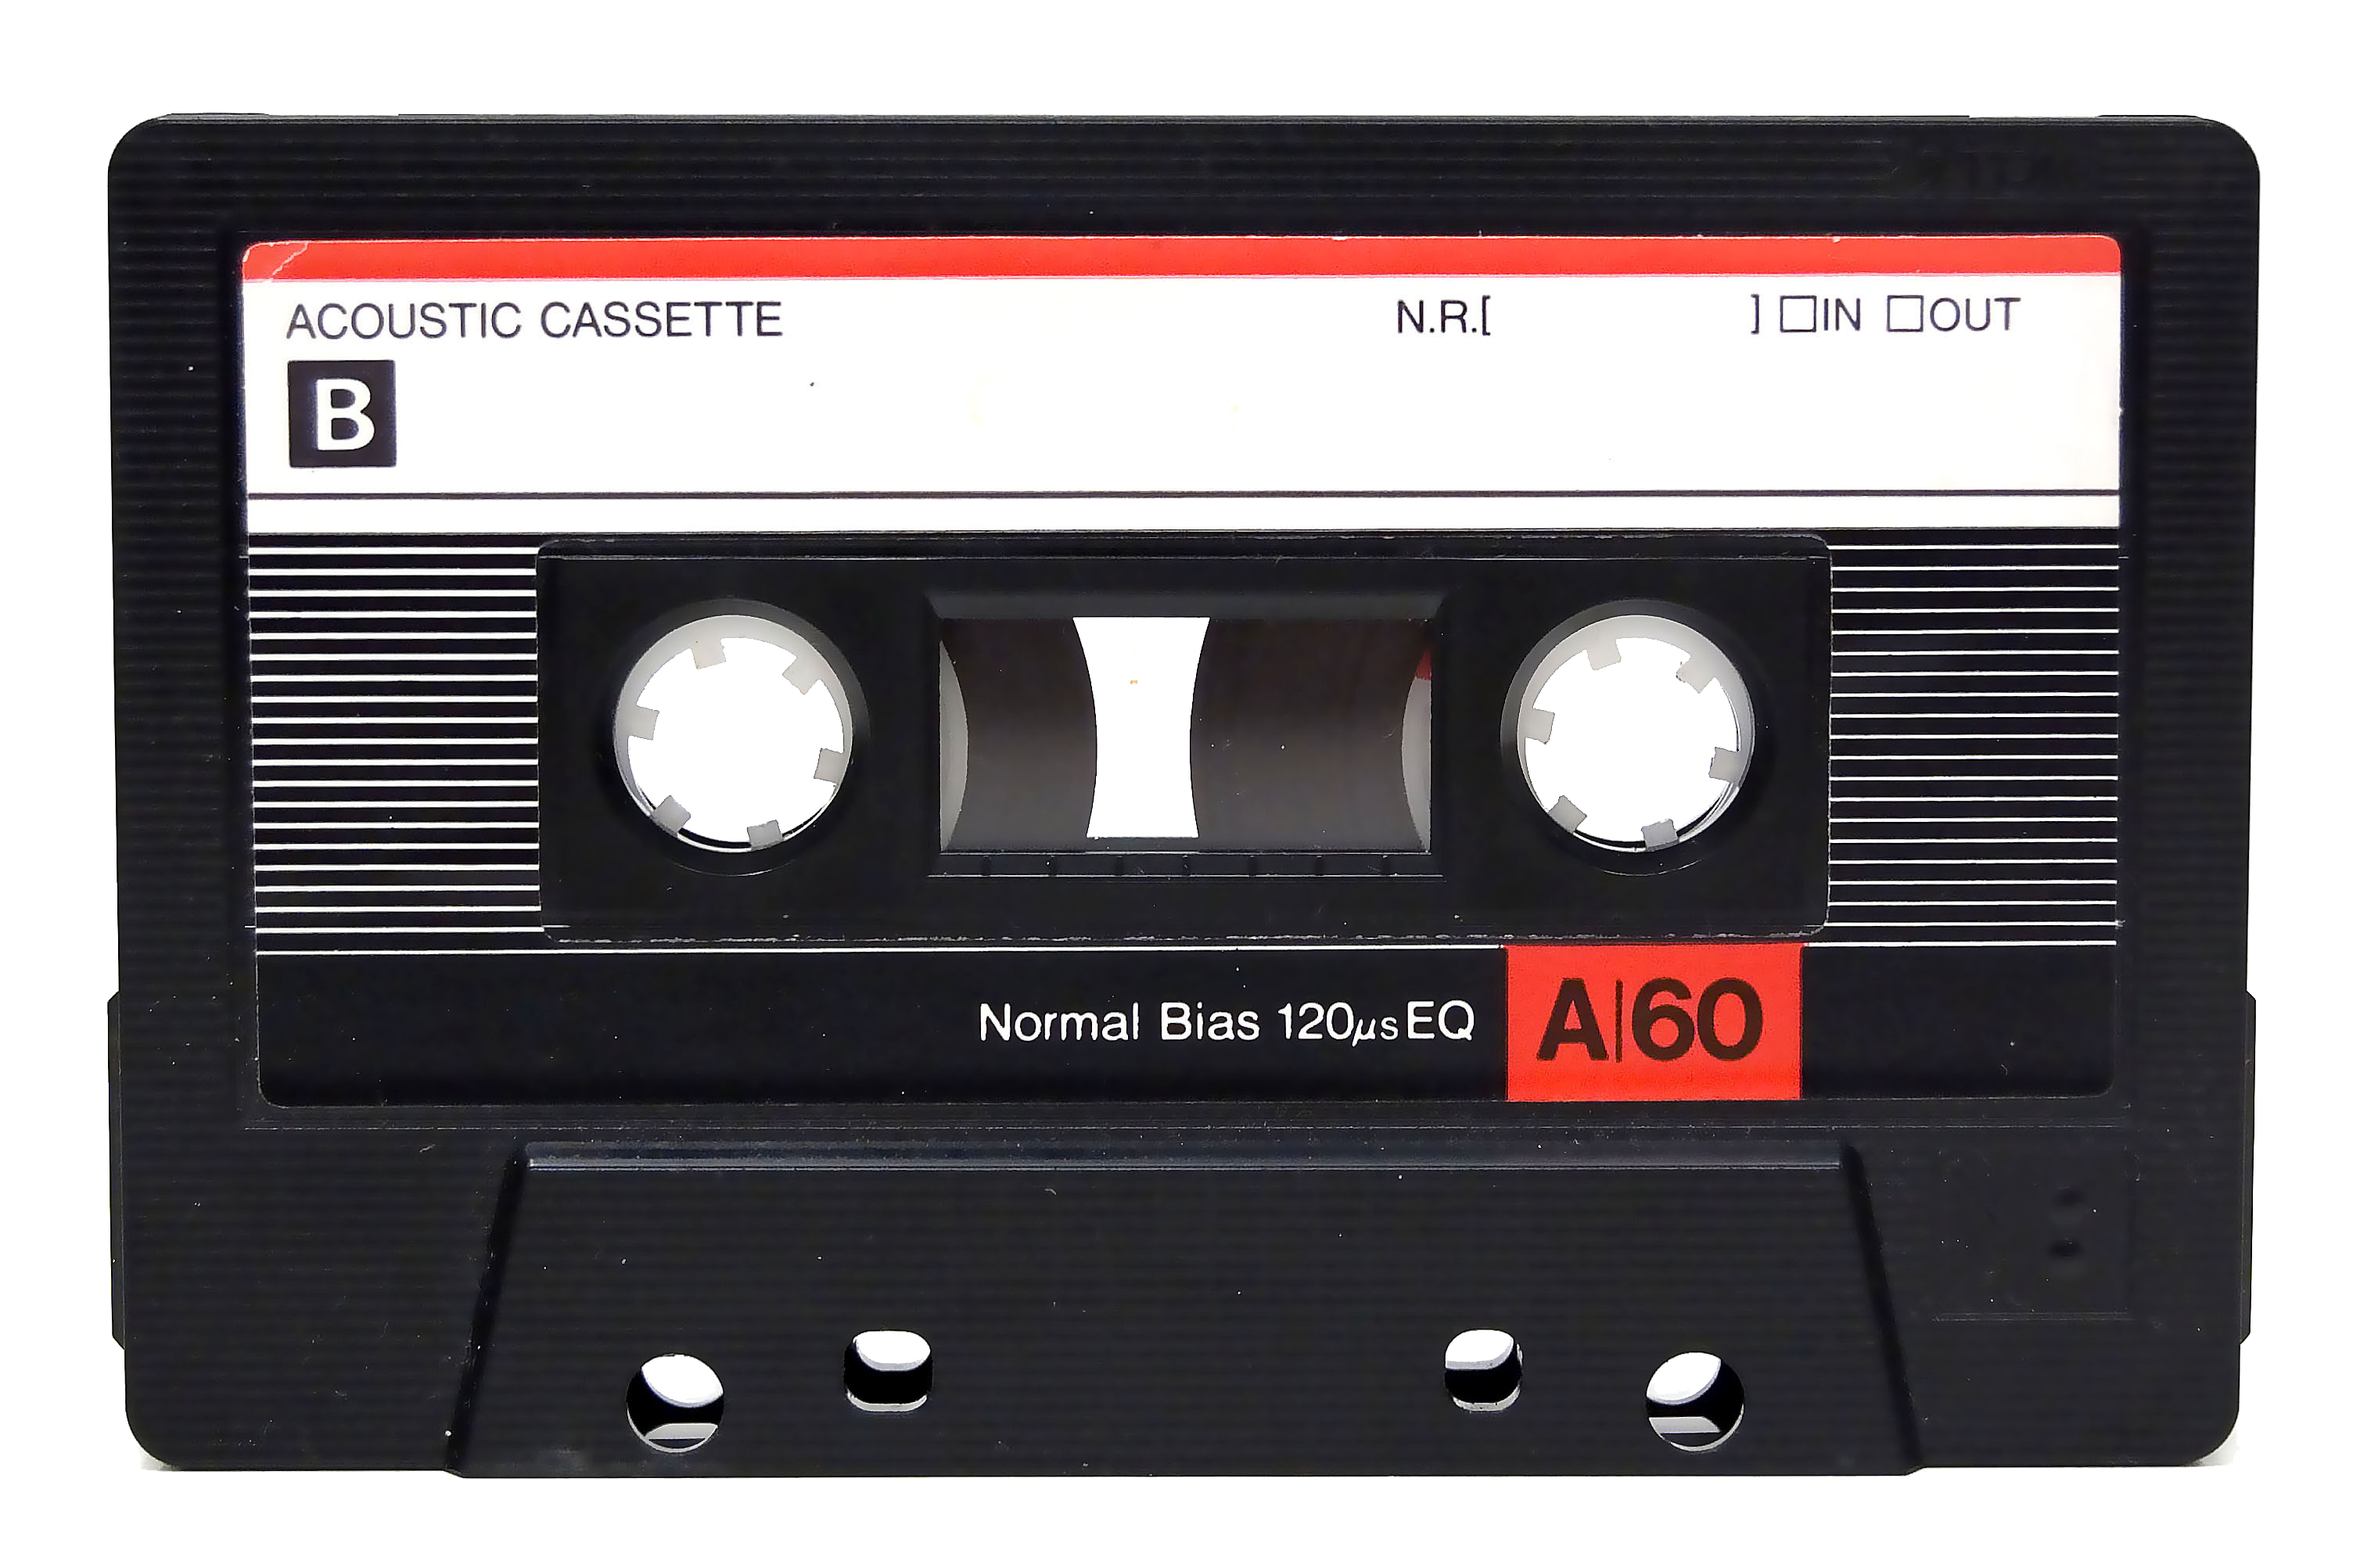
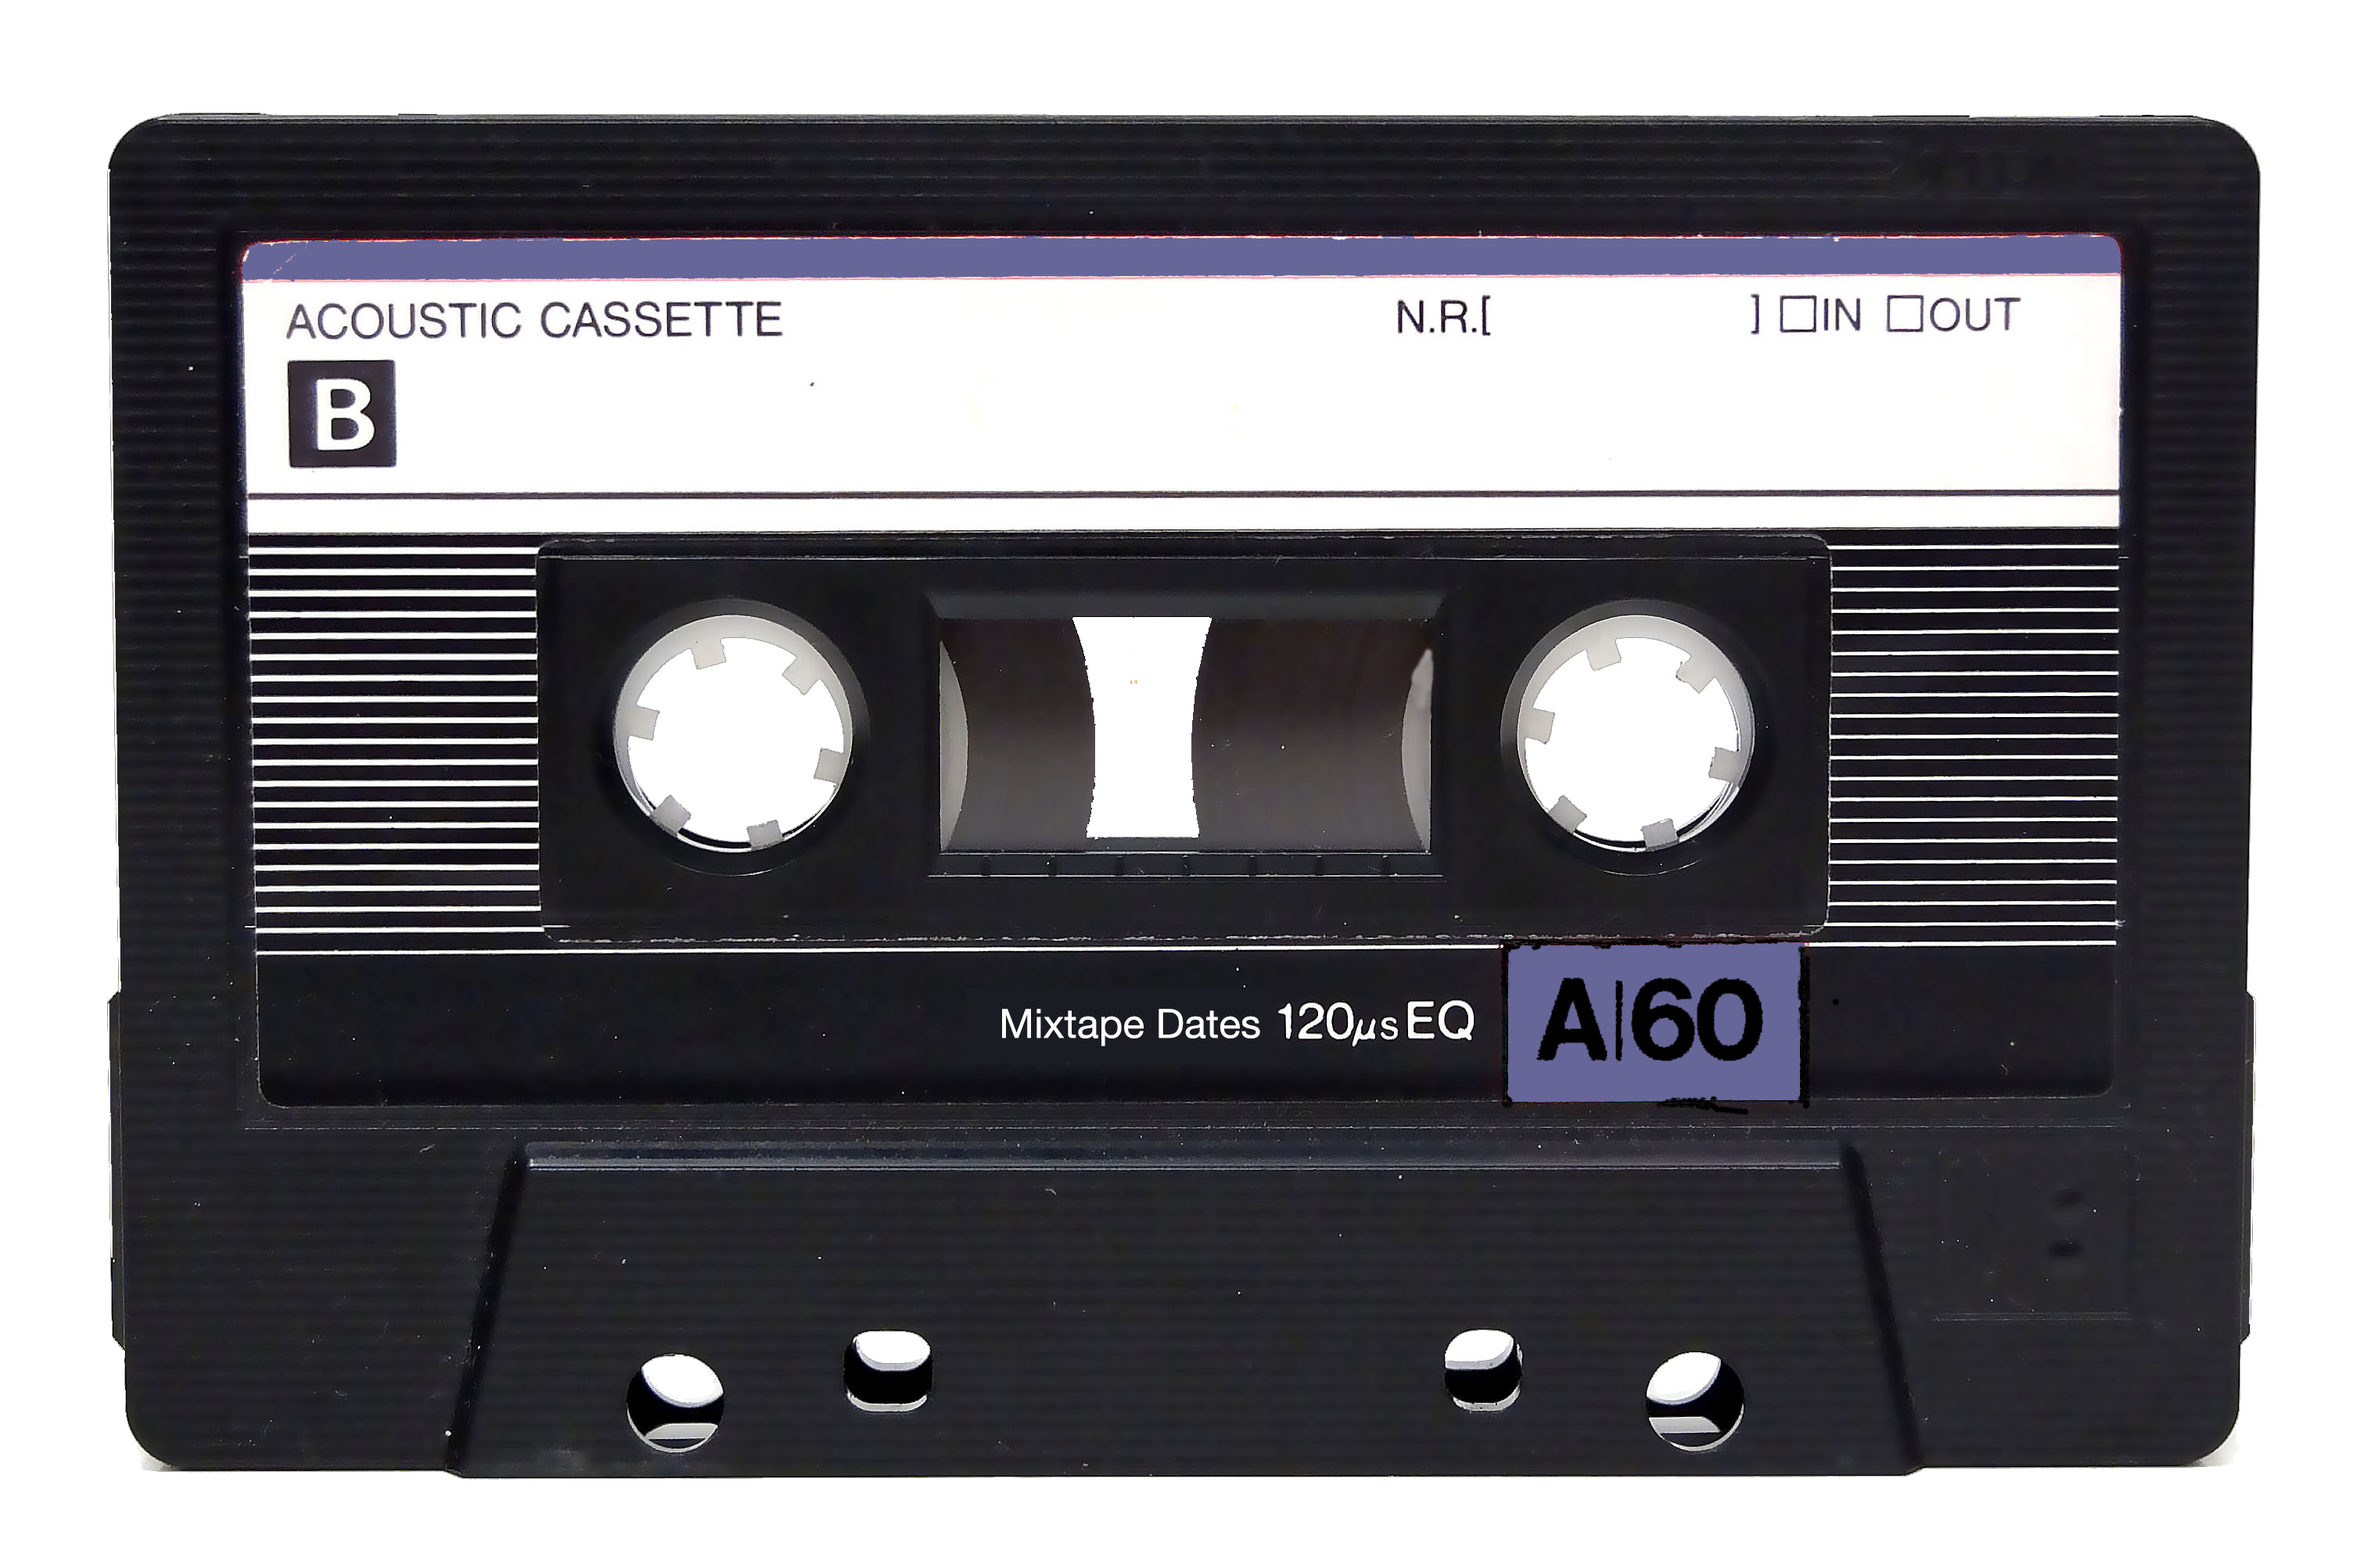
Initial draft for homepage

diff --git a/app/assets/stylesheets/welcome.css.scss b/app/assets/stylesheets/welcome.css.scss
@@ -1,3 +1,43 @@
 // Place all the styles related to the Welcome controller here.
 // They will automatically be included in application.css.
 // You can use Sass (SCSS) here: http://sass-lang.com/
+
+.welcome_tape_image{
+  width:500px;
+  margin-top: 100px;
+}
+
+.tape-label {
+  margin-bottom:20px;
+  z-index: 1;
+
+}
+
+h2.text-center.ng-binding{
+  margin-top: -256px;
+  padding-bottom: 235px;
+  font-family: 'Architects Daughter', cursive;;
+}
+
+.create_form {
+  margin-left: 144px;
+}
+
+.form-horizontal .form-group {
+  margin-right: 0px;
+  margin-left: 24px;
+}
+
+.btn-send {
+  color: #ffffff;
+  background-color: #72799B;
+  border-color: #727984;
+}
+
+.btn-send:hover {
+  color: #ffffff;
+  background-color: #7279CD;
+  border-color: #7279CB;
+}
+
+
